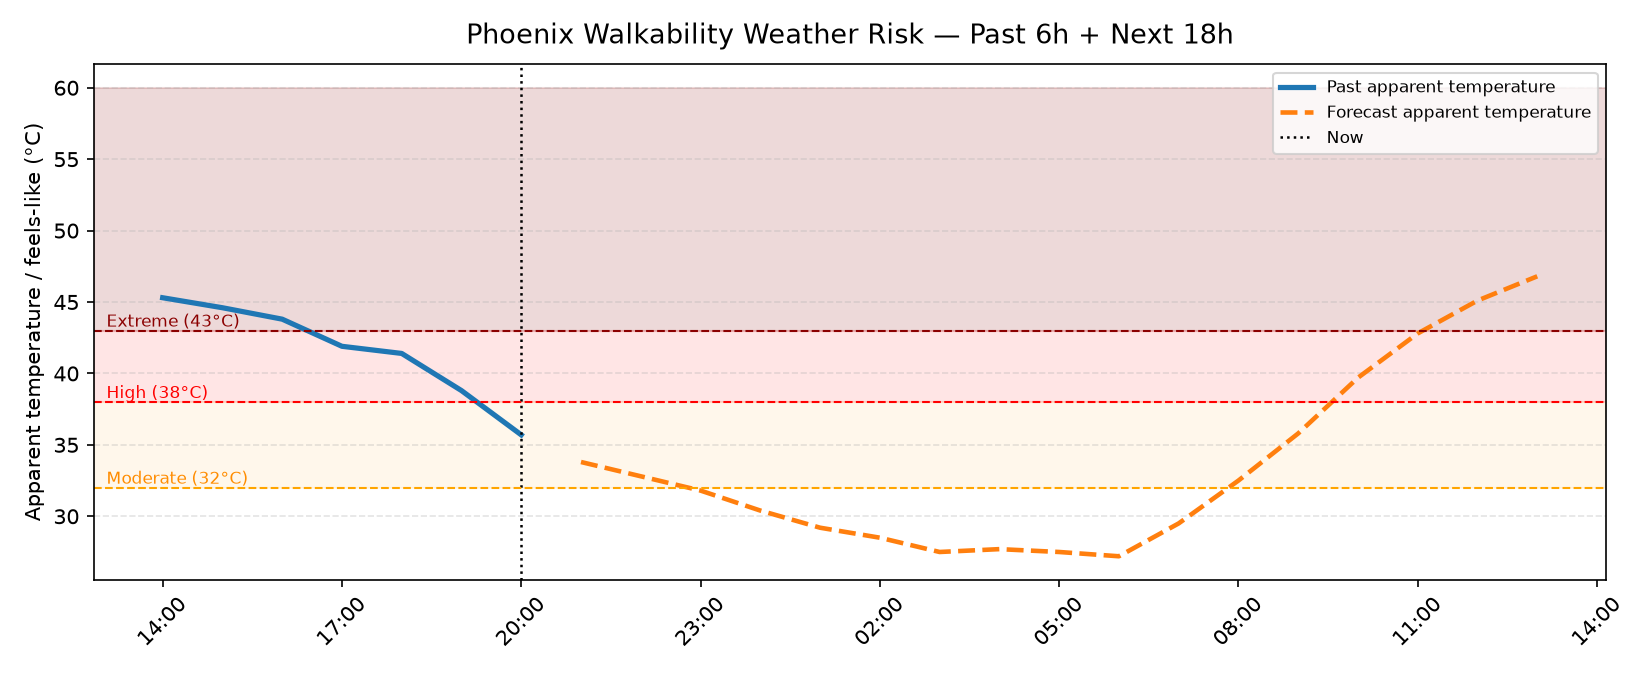
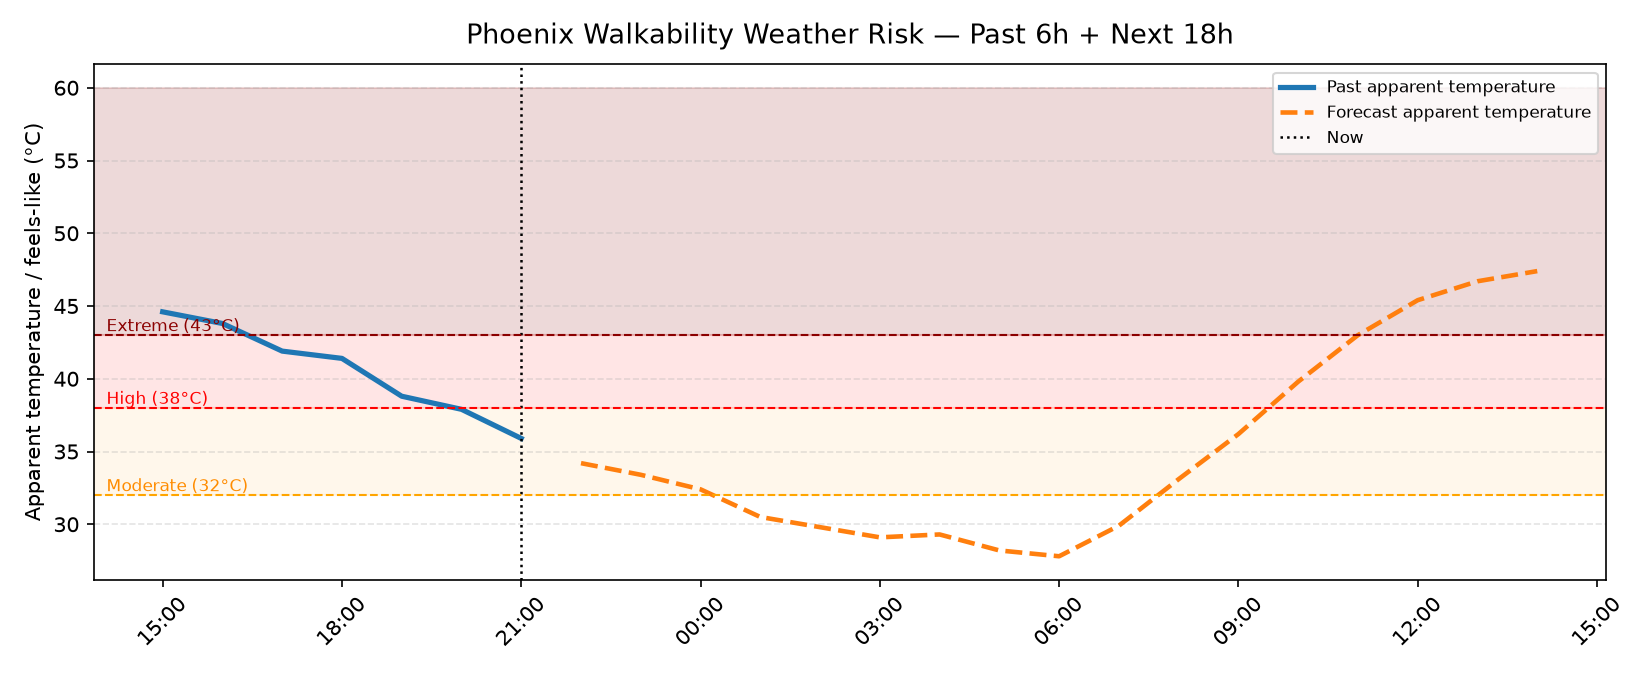
chore: update walkability weather risk [skip ci]

diff --git a/walkability_weather.md b/walkability_weather.md
@@ -1,18 +1,18 @@
 # 🚶 Phoenix Walkability Weather Risk — Live
 
-Updated: **Aug 16, 2026 at 20:00 Phoenix time**
+Updated: **Aug 16, 2026 at 21:45 Phoenix time**
 
 | Metric | Value |
 |---|---:|
-| Air temperature | 37.0°C |
-| Feels-like temperature | 35.7°C |
-| Relative humidity | 17% |
-| Wind speed | 5.4 km/h |
+| Air temperature | 35.8°C |
+| Feels-like temperature | 34.6°C |
+| Relative humidity | 20% |
+| Wind speed | 6.8 km/h |
 | UV index | 0.0 |
 | Current walking risk | **Moderate** |
-| Uncomfortable walking hours in next 18h | 8 hours |
-| High-risk walking hours in next 18h | 4 hours |
-| Extreme-risk walking hours in next 18h | 2 hours |
+| Uncomfortable walking hours in next 18h | 10 hours |
+| High-risk walking hours in next 18h | 5 hours |
+| Extreme-risk walking hours in next 18h | 4 hours |
 
 ## Why apparent temperature, not air temperature?
 
